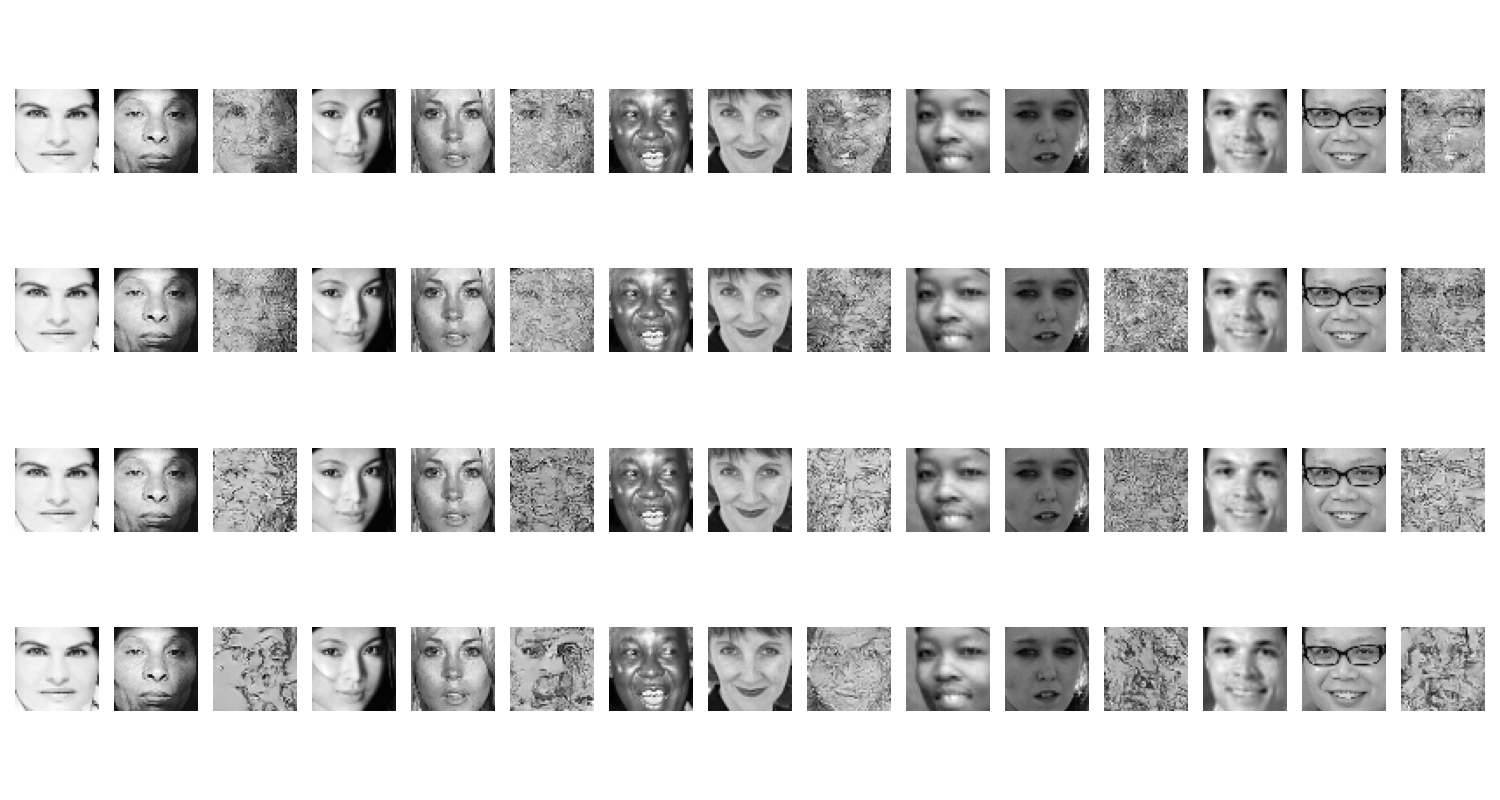
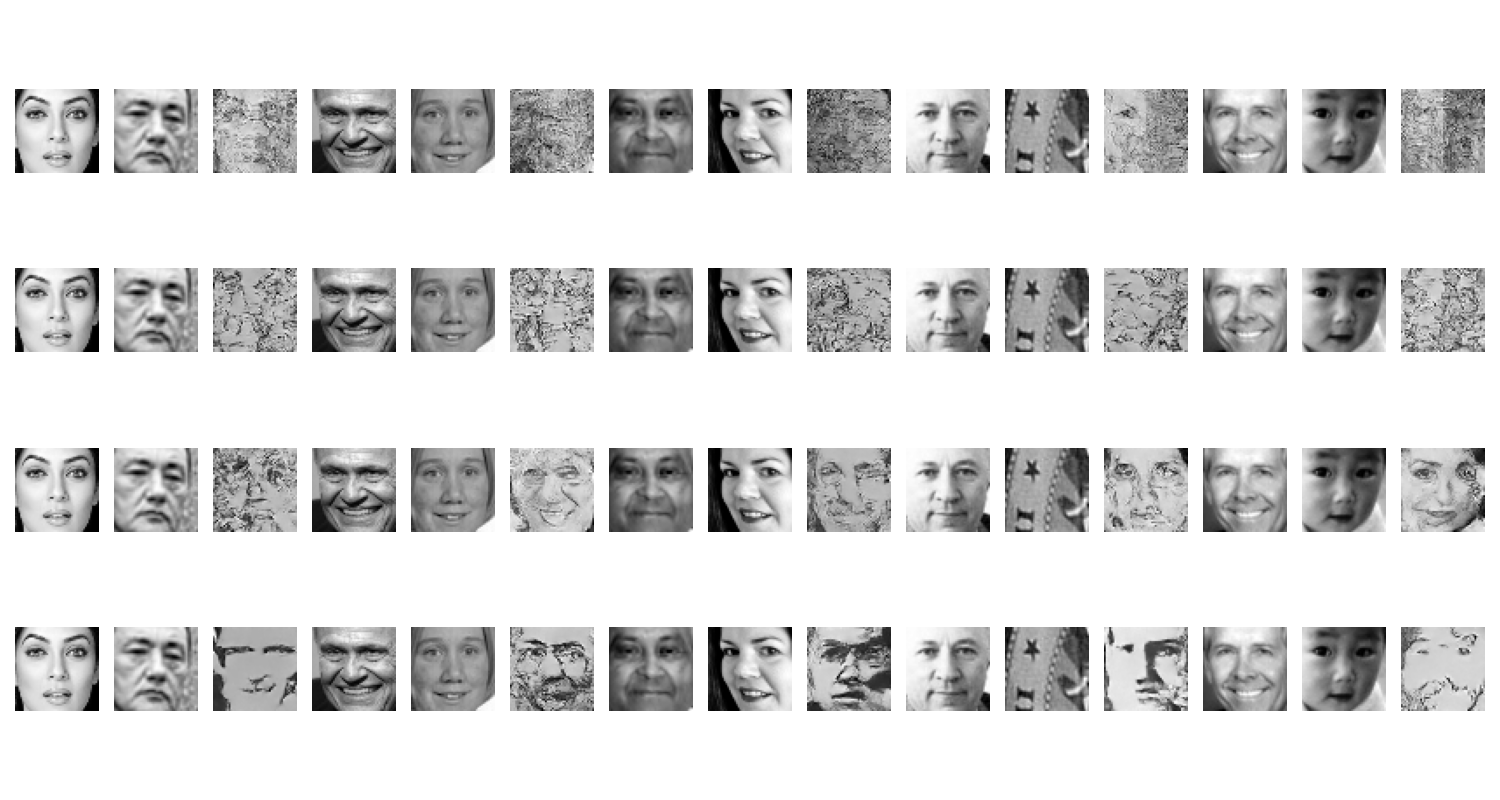
Question 2 solution updated

diff --git a/question2_inpainting_merging.py b/question2_inpainting_merging.py
@@ -1,8 +1,15 @@
 import os
+import time
 import torch
+import random
 import numpy as np
 import matplotlib.pyplot as plt
 from question1_custom_model import UNet
+
+seed = int(time.time()) % 2**32
+torch.manual_seed(seed)
+np.random.seed(seed)
+random.seed(seed)
 
 # -----------------------
 # 1. Setup and Parameters
@@ -96,12 +103,20 @@ def denoise_from_latent(z_start, t_start, model):
 # -----------------------
 
 # Define 4 different timesteps to explore
-timesteps = [50, 100, 200, 400]
+timesteps = [100, 300, 500, 700]
 
 # Select 5 random pairs of images
 num_pairs = 5
-rand_indices = torch.randperm(len(faces))[:2 * num_pairs]
-pairs = [(faces[i], faces[i+1]) for i in range(0, len(rand_indices), 2)]
+all_indices = list(range(len(faces)))
+random.shuffle(all_indices)  # Shuffle in-place using Python's random module
+rand_indices = all_indices[:2 * num_pairs]
+
+# Create 5 random, non-overlapping pairs
+pairs = []
+for i in range(0, len(rand_indices), 2):
+    idx1 = rand_indices[i]
+    idx2 = rand_indices[i + 1]
+    pairs.append((faces[idx1], faces[idx2]))
 
 # Container for all collage rows
 collage_rows = []
